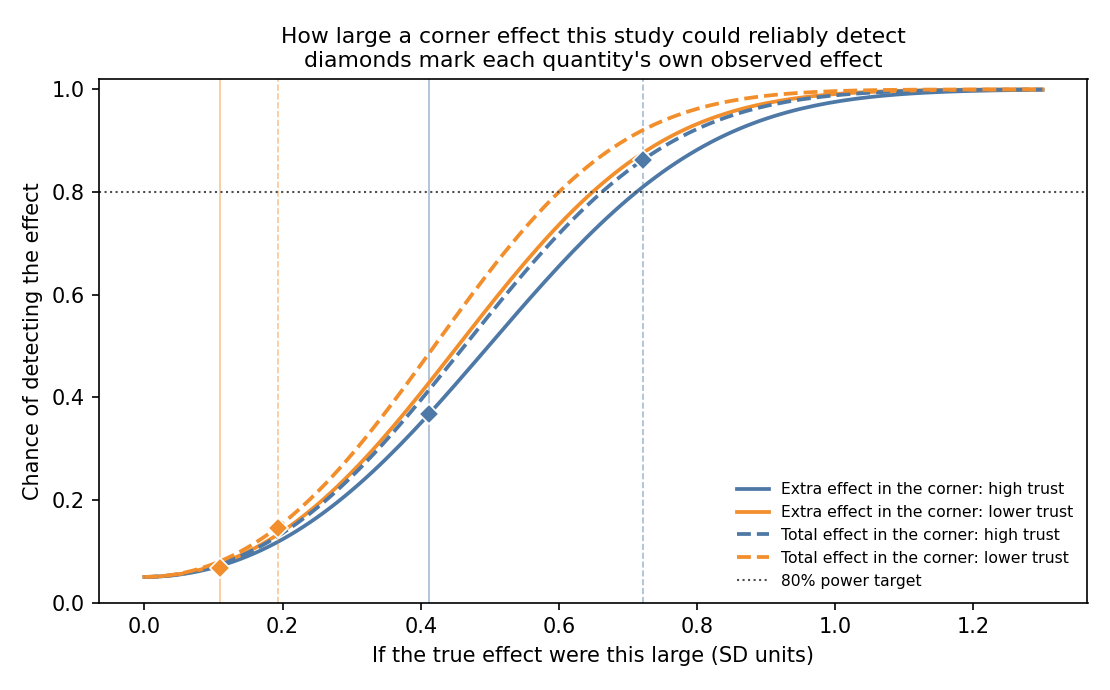
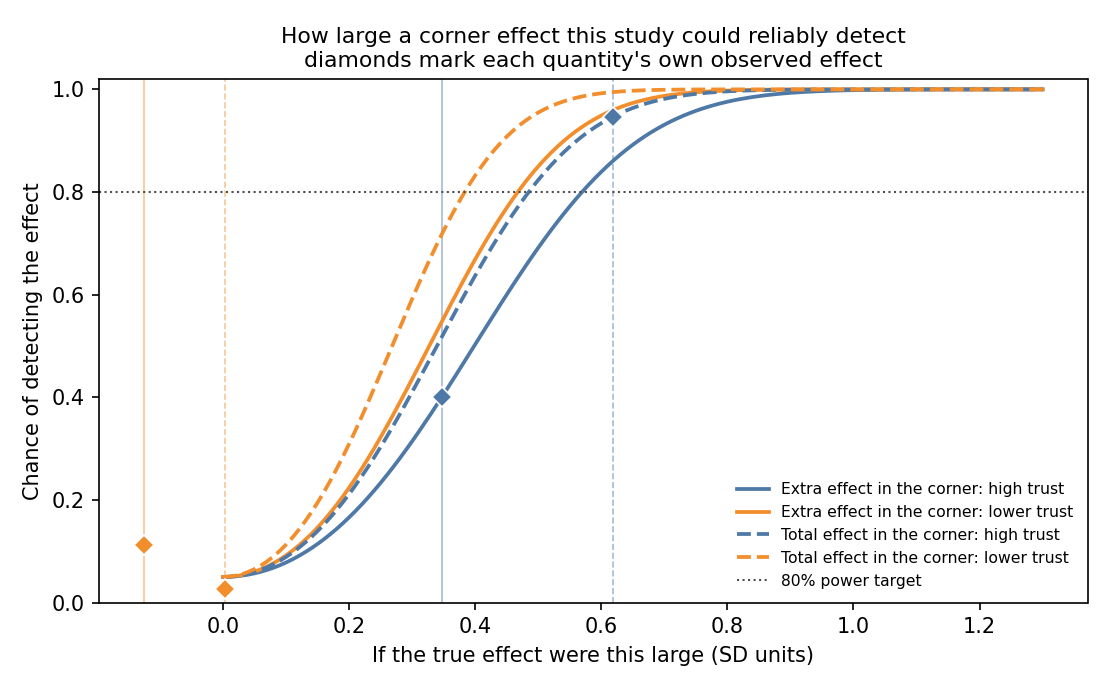
Sync poster from CAM repo (4496b9e)

diff --git a/docs/poster/block-4.html b/docs/poster/block-4.html
@@ -31,8 +31,8 @@
       <table>
         <thead><tr><th>Trust in source</th><th class="num">Outside</th><th class="num">Extra in corner</th><th class="num">In corner</th></tr></thead>
         <tbody>
-          <tr class="highlight"><td>Higher</td><td class="num">0.309</td><td class="num">0.412<br>[−0.077, 0.915]</td><td class="num">0.721<br>[0.272, 1.187]</td></tr>
-          <tr><td>Lower</td><td class="num">0.084</td><td class="num">0.109<br>[−0.358, 0.541]</td><td class="num">0.193<br>[−0.223, 0.594]</td></tr>
+          <tr class="highlight"><td>Higher</td><td class="num">0.272</td><td class="num">0.347<br>[−0.049, 0.730]</td><td class="num">0.619<br>[0.286, 0.965]</td></tr>
+          <tr><td>Lower</td><td class="num">0.128</td><td class="num">−0.125<br>[−0.445, 0.203]</td><td class="num">0.003<br>[−0.262, 0.267]</td></tr>
         </tbody>
       </table>
     </div>
@@ -81,20 +81,20 @@
     <p class="lede">Bootstrap percentile intervals, B = 2000, weights refit inside each replicate.</p>
 
     <h2>Gate 2 — the fixed conjunctive corner</h2>
-    <p>A respondent sits in the corner if trait anxiety and automation risk each fall in the pooled sample's top tercile, both measured pre-treatment: trait anxiety z ≥ 0.53 and automation risk ≥ 54.5th percentile. Membership follows deterministically from the data. Only the treatment effect is estimated, inside and outside the corner, by weighted least squares.</p>
+    <p>A respondent sits in the corner if trait anxiety and automation risk each sit at or above the pooled sample's median, both measured pre-treatment: trait anxiety z ≥ 0.06 and automation risk ≥ 32.1st percentile. Membership follows deterministically from the data. Only the treatment effect is estimated, inside and outside the corner, by weighted least squares.</p>
     <div class="scroller">
       <table>
         <thead><tr><th>Stratum</th><th class="num">τ<sub>base</sub></th><th class="num">δ</th><th class="num">Corner (τ<sub>base</sub>+δ)</th><th class="num">Share</th></tr></thead>
         <tbody>
-          <tr class="highlight"><td>Higher trust</td><td class="num">0.309<br>[0.147, 0.465]</td><td class="num">0.412<br>[−0.077, 0.915]</td><td class="num">0.721<br>[0.272, 1.187]</td><td class="num">11.7%</td></tr>
-          <tr><td>Lower trust</td><td class="num">0.084<br>[−0.046, 0.212]</td><td class="num">0.109<br>[−0.358, 0.541]</td><td class="num">0.193<br>[−0.223, 0.594]</td><td class="num">11.7%</td></tr>
+          <tr class="highlight"><td>Higher trust</td><td class="num">0.272<br>[0.087, 0.440]</td><td class="num">0.347<br>[−0.049, 0.730]</td><td class="num">0.619<br>[0.286, 0.965]</td><td class="num">25.1%</td></tr>
+          <tr><td>Lower trust</td><td class="num">0.128<br>[−0.022, 0.268]</td><td class="num">−0.125<br>[−0.445, 0.203]</td><td class="num">0.003<br>[−0.262, 0.267]</td><td class="num">25.1%</td></tr>
         </tbody>
       </table>
     </div>
-    <p class="lede">105 of 901 respondents (11.7%) qualify. The two moderators are near-independent, corr(A, R) = 0.014, and the corner share matches the ≈ 11.1% implied by independent terciles.</p>
+    <p class="lede">226 of 901 respondents (25.1%) qualify. The two moderators are near-independent, corr(A, R) = 0.014, and the corner share matches the 25% implied by independent medians.</p>
 
     <h2>Cutoff-choice sensitivity</h2>
-    <p>The same model was fit at three pre-specified cutoffs: the median (50th percentile), the 58.3rd percentile, and the tercile (66.7th, primary). The higher-trust corner total's 95% CI excludes zero at every cutoff. The increment δ is directionally stable, with P(&gt;0) at or above 0.95 at each cutoff. Its 95% CI includes zero at each cutoff, so the increment is the underpowered quantity. Lower-trust δ stays null throughout.</p>
+    <p>The same model was fit at three pre-specified cutoffs: the median (50th percentile, primary), the 58.3rd percentile, and the tercile (66.7th). The higher-trust corner total's 95% CI excludes zero at every cutoff. The increment δ is directionally stable, with P(&gt;0) between 0.946 and 0.958 across cutoffs. Its 95% CI includes zero at each cutoff, so the increment is the underpowered quantity. Lower-trust δ stays null throughout.</p>
 
     <div class="callout">
       <span class="label">How badly would mean ignorability have to fail?</span>

diff --git a/public/poster/block-4.html b/public/poster/block-4.html
@@ -31,8 +31,8 @@
       <table>
         <thead><tr><th>Trust in source</th><th class="num">Outside</th><th class="num">Extra in corner</th><th class="num">In corner</th></tr></thead>
         <tbody>
-          <tr class="highlight"><td>Higher</td><td class="num">0.309</td><td class="num">0.412<br>[−0.077, 0.915]</td><td class="num">0.721<br>[0.272, 1.187]</td></tr>
-          <tr><td>Lower</td><td class="num">0.084</td><td class="num">0.109<br>[−0.358, 0.541]</td><td class="num">0.193<br>[−0.223, 0.594]</td></tr>
+          <tr class="highlight"><td>Higher</td><td class="num">0.272</td><td class="num">0.347<br>[−0.049, 0.730]</td><td class="num">0.619<br>[0.286, 0.965]</td></tr>
+          <tr><td>Lower</td><td class="num">0.128</td><td class="num">−0.125<br>[−0.445, 0.203]</td><td class="num">0.003<br>[−0.262, 0.267]</td></tr>
         </tbody>
       </table>
     </div>
@@ -81,20 +81,20 @@
     <p class="lede">Bootstrap percentile intervals, B = 2000, weights refit inside each replicate.</p>
 
     <h2>Gate 2 — the fixed conjunctive corner</h2>
-    <p>A respondent sits in the corner if trait anxiety and automation risk each fall in the pooled sample's top tercile, both measured pre-treatment: trait anxiety z ≥ 0.53 and automation risk ≥ 54.5th percentile. Membership follows deterministically from the data. Only the treatment effect is estimated, inside and outside the corner, by weighted least squares.</p>
+    <p>A respondent sits in the corner if trait anxiety and automation risk each sit at or above the pooled sample's median, both measured pre-treatment: trait anxiety z ≥ 0.06 and automation risk ≥ 32.1st percentile. Membership follows deterministically from the data. Only the treatment effect is estimated, inside and outside the corner, by weighted least squares.</p>
     <div class="scroller">
       <table>
         <thead><tr><th>Stratum</th><th class="num">τ<sub>base</sub></th><th class="num">δ</th><th class="num">Corner (τ<sub>base</sub>+δ)</th><th class="num">Share</th></tr></thead>
         <tbody>
-          <tr class="highlight"><td>Higher trust</td><td class="num">0.309<br>[0.147, 0.465]</td><td class="num">0.412<br>[−0.077, 0.915]</td><td class="num">0.721<br>[0.272, 1.187]</td><td class="num">11.7%</td></tr>
-          <tr><td>Lower trust</td><td class="num">0.084<br>[−0.046, 0.212]</td><td class="num">0.109<br>[−0.358, 0.541]</td><td class="num">0.193<br>[−0.223, 0.594]</td><td class="num">11.7%</td></tr>
+          <tr class="highlight"><td>Higher trust</td><td class="num">0.272<br>[0.087, 0.440]</td><td class="num">0.347<br>[−0.049, 0.730]</td><td class="num">0.619<br>[0.286, 0.965]</td><td class="num">25.1%</td></tr>
+          <tr><td>Lower trust</td><td class="num">0.128<br>[−0.022, 0.268]</td><td class="num">−0.125<br>[−0.445, 0.203]</td><td class="num">0.003<br>[−0.262, 0.267]</td><td class="num">25.1%</td></tr>
         </tbody>
       </table>
     </div>
-    <p class="lede">105 of 901 respondents (11.7%) qualify. The two moderators are near-independent, corr(A, R) = 0.014, and the corner share matches the ≈ 11.1% implied by independent terciles.</p>
+    <p class="lede">226 of 901 respondents (25.1%) qualify. The two moderators are near-independent, corr(A, R) = 0.014, and the corner share matches the 25% implied by independent medians.</p>
 
     <h2>Cutoff-choice sensitivity</h2>
-    <p>The same model was fit at three pre-specified cutoffs: the median (50th percentile), the 58.3rd percentile, and the tercile (66.7th, primary). The higher-trust corner total's 95% CI excludes zero at every cutoff. The increment δ is directionally stable, with P(&gt;0) at or above 0.95 at each cutoff. Its 95% CI includes zero at each cutoff, so the increment is the underpowered quantity. Lower-trust δ stays null throughout.</p>
+    <p>The same model was fit at three pre-specified cutoffs: the median (50th percentile, primary), the 58.3rd percentile, and the tercile (66.7th). The higher-trust corner total's 95% CI excludes zero at every cutoff. The increment δ is directionally stable, with P(&gt;0) between 0.946 and 0.958 across cutoffs. Its 95% CI includes zero at each cutoff, so the increment is the underpowered quantity. Lower-trust δ stays null throughout.</p>
 
     <div class="callout">
       <span class="label">How badly would mean ignorability have to fail?</span>

diff --git a/docs/poster/block-5.html b/docs/poster/block-5.html
@@ -19,7 +19,7 @@
     <div class="stats">
       <div class="stat good"><div class="label">Effect, higher trust</div><div class="value">99.7%</div><div class="note">MDE 0.21</div></div>
       <div class="stat good"><div class="label">Difference between them</div><div class="value">93%</div><div class="note">MDE 0.22</div></div>
-      <div class="stat warn"><div class="label">Corner increment, higher trust</div><div class="value">37%</div><div class="note">below its MDE of 0.71</div></div>
+      <div class="stat warn"><div class="label">Corner increment, higher trust</div><div class="value">40%</div><div class="note">below its MDE of 0.57</div></div>
     </div>
 
     <p class="compact-hide">This design identifies the stratum effects and the corner total. It does not identify the corner increment.</p>
@@ -55,10 +55,10 @@
       <table>
         <thead><tr><th>Target</th><th class="num">Observed</th><th class="num">MDE</th><th class="num">Power</th><th>Clears</th></tr></thead>
         <tbody>
-          <tr class="highlight"><td>Corner effect, higher trust</td><td class="num">0.721</td><td class="num">0.662</td><td class="num">86%</td><td>yes</td></tr>
-          <tr><td>Corner effect, lower trust</td><td class="num">0.193</td><td class="num">0.600</td><td class="num">14%</td><td>no</td></tr>
-          <tr><td>Corner increment, higher trust</td><td class="num">0.412</td><td class="num">0.712</td><td class="num">37%</td><td>no</td></tr>
-          <tr><td>Corner increment, lower trust</td><td class="num">0.109</td><td class="num">0.649</td><td class="num">7%</td><td>no</td></tr>
+          <tr class="highlight"><td>Corner effect, higher trust</td><td class="num">0.619</td><td class="num">0.485</td><td class="num">95%</td><td>yes</td></tr>
+          <tr><td>Corner effect, lower trust</td><td class="num">0.003</td><td class="num">0.383</td><td class="num">3%</td><td>no</td></tr>
+          <tr><td>Corner increment, higher trust</td><td class="num">0.347</td><td class="num">0.569</td><td class="num">40%</td><td>no</td></tr>
+          <tr><td>Corner increment, lower trust</td><td class="num">−0.125</td><td class="num">0.467</td><td class="num">11%</td><td>no</td></tr>
         </tbody>
       </table>
     </div>
@@ -72,7 +72,7 @@
     <h2>Robustness</h2>
     <ul class="plain">
       <li><span class="term">Covariate adjustment.</span><span class="def">Exact mean balance on 18 covariates makes residual adjustment identically zero; there is no adjusted variant to report.</span></li>
-      <li><span class="term">The cutoff choice does not drive the corner.</span><span class="def">The corner total's 95% CI excludes zero at the median, the 58.3rd percentile and the tercile; δ keeps P(&gt;0) ≥ 0.95 at each.</span></li>
+      <li><span class="term">The cutoff choice does not drive the corner.</span><span class="def">The corner total's 95% CI excludes zero at the median, the 58.3rd percentile and the tercile; δ keeps P(&gt;0) between 0.946 and 0.958 across the three.</span></li>
       <li><span class="term">Nothing is fitted except the treatment effect.</span><span class="def">Corner membership is a deterministic function of two pre-treatment variables, so no cutoff or sharpness parameter is estimated.</span></li>
     </ul>
 

diff --git a/public/poster/block-5.html b/public/poster/block-5.html
@@ -19,7 +19,7 @@
     <div class="stats">
       <div class="stat good"><div class="label">Effect, higher trust</div><div class="value">99.7%</div><div class="note">MDE 0.21</div></div>
       <div class="stat good"><div class="label">Difference between them</div><div class="value">93%</div><div class="note">MDE 0.22</div></div>
-      <div class="stat warn"><div class="label">Corner increment, higher trust</div><div class="value">37%</div><div class="note">below its MDE of 0.71</div></div>
+      <div class="stat warn"><div class="label">Corner increment, higher trust</div><div class="value">40%</div><div class="note">below its MDE of 0.57</div></div>
     </div>
 
     <p class="compact-hide">This design identifies the stratum effects and the corner total. It does not identify the corner increment.</p>
@@ -55,10 +55,10 @@
       <table>
         <thead><tr><th>Target</th><th class="num">Observed</th><th class="num">MDE</th><th class="num">Power</th><th>Clears</th></tr></thead>
         <tbody>
-          <tr class="highlight"><td>Corner effect, higher trust</td><td class="num">0.721</td><td class="num">0.662</td><td class="num">86%</td><td>yes</td></tr>
-          <tr><td>Corner effect, lower trust</td><td class="num">0.193</td><td class="num">0.600</td><td class="num">14%</td><td>no</td></tr>
-          <tr><td>Corner increment, higher trust</td><td class="num">0.412</td><td class="num">0.712</td><td class="num">37%</td><td>no</td></tr>
-          <tr><td>Corner increment, lower trust</td><td class="num">0.109</td><td class="num">0.649</td><td class="num">7%</td><td>no</td></tr>
+          <tr class="highlight"><td>Corner effect, higher trust</td><td class="num">0.619</td><td class="num">0.485</td><td class="num">95%</td><td>yes</td></tr>
+          <tr><td>Corner effect, lower trust</td><td class="num">0.003</td><td class="num">0.383</td><td class="num">3%</td><td>no</td></tr>
+          <tr><td>Corner increment, higher trust</td><td class="num">0.347</td><td class="num">0.569</td><td class="num">40%</td><td>no</td></tr>
+          <tr><td>Corner increment, lower trust</td><td class="num">−0.125</td><td class="num">0.467</td><td class="num">11%</td><td>no</td></tr>
         </tbody>
       </table>
     </div>
@@ -72,7 +72,7 @@
     <h2>Robustness</h2>
     <ul class="plain">
       <li><span class="term">Covariate adjustment.</span><span class="def">Exact mean balance on 18 covariates makes residual adjustment identically zero; there is no adjusted variant to report.</span></li>
-      <li><span class="term">The cutoff choice does not drive the corner.</span><span class="def">The corner total's 95% CI excludes zero at the median, the 58.3rd percentile and the tercile; δ keeps P(&gt;0) ≥ 0.95 at each.</span></li>
+      <li><span class="term">The cutoff choice does not drive the corner.</span><span class="def">The corner total's 95% CI excludes zero at the median, the 58.3rd percentile and the tercile; δ keeps P(&gt;0) between 0.946 and 0.958 across the three.</span></li>
       <li><span class="term">Nothing is fitted except the treatment effect.</span><span class="def">Corner membership is a deterministic function of two pre-treatment variables, so no cutoff or sharpness parameter is estimated.</span></li>
     </ul>
 

diff --git a/docs/poster/block-6.html b/docs/poster/block-6.html
@@ -44,7 +44,7 @@
           <tr><td>Unconditional ATE</td><td class="num">0.230</td><td class="num">[0.114, 0.346]</td><td>Randomization</td></tr>
           <tr class="highlight"><td>Effect, higher trust</td><td class="num">0.362</td><td class="num">[0.208, 0.510]</td><td>Randomization + MI</td></tr>
           <tr><td>Effect, lower trust</td><td class="num">0.094</td><td class="num">[−0.025, 0.216]</td><td>Randomization + MI</td></tr>
-          <tr class="highlight"><td>Corner effect, higher trust</td><td class="num">0.721</td><td class="num">[0.272, 1.187]</td><td>Randomization + MI</td></tr>
+          <tr class="highlight"><td>Corner effect, higher trust</td><td class="num">0.619</td><td class="num">[0.286, 0.965]</td><td>Randomization + MI</td></tr>
         </tbody>
       </table>
     </div>

diff --git a/public/poster/block-6.html b/public/poster/block-6.html
@@ -44,7 +44,7 @@
           <tr><td>Unconditional ATE</td><td class="num">0.230</td><td class="num">[0.114, 0.346]</td><td>Randomization</td></tr>
           <tr class="highlight"><td>Effect, higher trust</td><td class="num">0.362</td><td class="num">[0.208, 0.510]</td><td>Randomization + MI</td></tr>
           <tr><td>Effect, lower trust</td><td class="num">0.094</td><td class="num">[−0.025, 0.216]</td><td>Randomization + MI</td></tr>
-          <tr class="highlight"><td>Corner effect, higher trust</td><td class="num">0.721</td><td class="num">[0.272, 1.187]</td><td>Randomization + MI</td></tr>
+          <tr class="highlight"><td>Corner effect, higher trust</td><td class="num">0.619</td><td class="num">[0.286, 0.965]</td><td>Randomization + MI</td></tr>
         </tbody>
       </table>
     </div>
